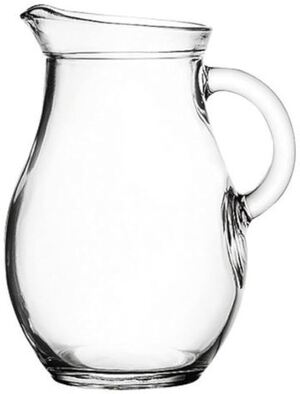
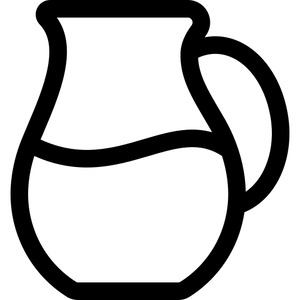
github.com/pishoyg/coptic/commit/efe8f98b48b654e49dac6e984cdf5decde301324 ``` [#5,#189][Crum/Images,Senses] Run `make flashcards test`.
```

Changed region(s): [[0.0, 0.0, 0.99, 1.0]]

diff --git a/crum/804.html b/crum/804.html
@@ -113,7 +113,97 @@
     </div>
 
     <br>
-    <br>
+
+    <div id="images" class="images">
+      <figure>
+        <img id="explanatory804-2-1" class="explanatory" alt=
+        "https://www.istockphoto.com/nl/vector/hand-die-op-deurpictogram-klopt-vectorillustratie-gm1226584212-361448752"
+        src="dictionary_marcion.sourceforge.net_data_img-300_804-2-1.jpg"
+        style="width: auto">
+        <figcaption>
+          <span class="dev explanatory-key" hidden="">804-2-1</span>
+          <span class="italic lighter small">knock</span>
+        </figcaption>
+      </figure>
+
+      <figure>
+        <img id="explanatory804-3-1" class="explanatory" alt=
+        "https://www.shutterstock.com/da/image-vector/aged-people-knock-big-iron-monastery-1779469655"
+        src="dictionary_marcion.sourceforge.net_data_img-300_804-3-1.webp"
+        style="width: auto">
+        <figcaption>
+          <span class="dev explanatory-key" hidden="">804-3-1</span>
+          <span class="italic lighter small">knock (to summon
+          congregation)</span>
+        </figcaption>
+      </figure>
+
+      <figure>
+        <img id="explanatory804-4-1" class="explanatory" alt=
+        "https://www.freepik.com/icon/man-knocking-door_10694" src=
+        "dictionary_marcion.sourceforge.net_data_img-300_804-4-1.jpg" style=
+        "width: auto">
+        <figcaption>
+          <span class="dev explanatory-key" hidden="">804-4-1</span>
+          <span class="italic lighter small">knock (on door)</span>
+        </figcaption>
+      </figure>
+
+      <figure>
+        <img id="explanatory804-5-1" class="explanatory" alt=
+        "https://www.flaticon.com/free-icon/trumpet_151763" src=
+        "dictionary_marcion.sourceforge.net_data_img-300_804-5-1.jpg" style=
+        "width: auto">
+        <figcaption>
+          <span class="dev explanatory-key" hidden="">804-5-1</span>
+          <span class="italic lighter small">voice instrument</span>
+        </figcaption>
+      </figure>
+
+      <figure>
+        <img id="explanatory804-6-1" class="explanatory" alt=
+        "https://www.flaticon.com/free-icon/heartbeat_771557" src=
+        "dictionary_marcion.sourceforge.net_data_img-300_804-6-1.jpg" style=
+        "width: auto">
+        <figcaption>
+          <span class="dev explanatory-key" hidden="">804-6-1</span>
+          <span class="italic lighter small">heartbeat</span>
+        </figcaption>
+      </figure>
+
+      <figure>
+        <img id="explanatory804-7-1" class="explanatory" alt=
+        "https://www.vecteezy.com/free-vector/weaving-icon" src=
+        "dictionary_marcion.sourceforge.net_data_img-300_804-7-1.jpg" style=
+        "width: auto">
+        <figcaption>
+          <span class="dev explanatory-key" hidden="">804-7-1</span>
+          <span class="italic lighter small">process in mat weaving</span>
+        </figcaption>
+      </figure>
+
+      <figure>
+        <img id="explanatory804-8-1" class="explanatory" alt=
+        "https://www.freepik.com/premium-vector/portrait-man-has-shoulder-pain-illustration_134339944.htm"
+        src="dictionary_marcion.sourceforge.net_data_img-300_804-8-1.jpg"
+        style="width: auto">
+        <figcaption>
+          <span class="dev explanatory-key" hidden="">804-8-1</span>
+          <span class="italic lighter small">throb, ache</span>
+        </figcaption>
+      </figure>
+
+      <figure>
+        <img id="explanatory804-9-1" class="explanatory" alt=
+        "https://uxwing.com/clap-icon/" src=
+        "dictionary_marcion.sourceforge.net_data_img-300_804-9-1.jpg" style=
+        "width: auto">
+        <figcaption>
+          <span class="dev explanatory-key" hidden="">804-9-1</span>
+          <span class="italic lighter small">clap</span>
+        </figcaption>
+      </figure>
+    </div>
 
     <hr>
 

diff --git a/crum/806.html b/crum/806.html
@@ -97,7 +97,54 @@
     </div>
 
     <br>
-    <br>
+
+    <div id="images" class="images">
+      <figure>
+        <img id="explanatory806-1-1" class="explanatory" alt=
+        "https://www.shareicon.net/musician-percussion-instrument-music-drums-orchestra-people-musical-instrument-cymbals-cymbal-humanpictos-774944"
+        src="dictionary_marcion.sourceforge.net_data_img-300_806-1-1.jpg"
+        style="width: auto">
+        <figcaption>
+          <span class="dev explanatory-key" hidden="">806-1-1</span>
+          <span class="italic lighter small">strike, beat (a musical
+          instrument)</span>
+        </figcaption>
+      </figure>
+
+      <figure>
+        <img id="explanatory806-2-1" class="explanatory" alt=
+        "https://thenounproject.com/browse/icons/term/bird-song/" src=
+        "dictionary_marcion.sourceforge.net_data_img-300_806-2-1.jpg" style=
+        "width: auto">
+        <figcaption>
+          <span class="dev explanatory-key" hidden="">806-2-1</span>
+          <span class="italic lighter small">make a repeated sound (as of bird
+          voice)</span>
+        </figcaption>
+      </figure>
+
+      <figure>
+        <img id="explanatory806-3-1" class="explanatory" alt=
+        "https://uxwing.com/drum-icon/" src=
+        "dictionary_marcion.sourceforge.net_data_img-300_806-3-1.jpg" style=
+        "width: auto">
+        <figcaption>
+          <span class="dev explanatory-key" hidden="">806-3-1</span>
+          <span class="italic lighter small">drum</span>
+        </figcaption>
+      </figure>
+
+      <figure>
+        <img id="explanatory806-4-1" class="explanatory" alt=
+        "https://uxwing.com/cymbal-icon/" src=
+        "dictionary_marcion.sourceforge.net_data_img-300_806-4-1.jpg" style=
+        "width: auto">
+        <figcaption>
+          <span class="dev explanatory-key" hidden="">806-4-1</span>
+          <span class="italic lighter small">cymbals</span>
+        </figcaption>
+      </figure>
+    </div>
 
     <hr>
 

diff --git a/crum/792.html b/crum/792.html
@@ -111,12 +111,24 @@
 
     <div id="images" class="images">
       <figure>
-        <img id="explanatory792-1-1" class="explanatory" alt="792-1-1" src=
+        <img id="explanatory792-1-1" class="explanatory" alt=
+        "https://www.flaticon.com/free-icon/pitcher_3159617" src=
         "dictionary_marcion.sourceforge.net_data_img-300_792-1-1.jpg" style=
         "width: auto">
         <figcaption>
           <span class="dev explanatory-key" hidden="">792-1-1</span>
-          <span class="italic lighter small">1</span>
+          <span class="italic lighter small">pitcher</span>
+        </figcaption>
+      </figure>
+
+      <figure>
+        <img id="explanatory792-2-1" class="explanatory" alt=
+        "https://www.flaticon.com/free-icon/jar_175533" src=
+        "dictionary_marcion.sourceforge.net_data_img-300_792-2-1.jpg" style=
+        "width: auto">
+        <figcaption>
+          <span class="dev explanatory-key" hidden="">792-2-1</span>
+          <span class="italic lighter small">jar</span>
         </figcaption>
       </figure>
     </div>

diff --git a/crum/803.html b/crum/803.html
@@ -94,7 +94,30 @@
     </div>
 
     <br>
-    <br>
+
+    <div id="images" class="images">
+      <figure>
+        <img id="explanatory803-2-1" class="explanatory" alt=
+        "http://www.coptic-cairo.com/culture/monk/monk/garment.html" src=
+        "dictionary_marcion.sourceforge.net_data_img-300_803-2-1.jpg" style=
+        "width: auto">
+        <figcaption>
+          <span class="dev explanatory-key" hidden="">803-2-1</span>
+          <span class="italic lighter small">hood (mostly of monks)</span>
+        </figcaption>
+      </figure>
+
+      <figure>
+        <img id="explanatory803-4-1" class="explanatory" alt=
+        "https://www.amazon.com/Friar-Medieval-Renaissance-Costume-Accessory/dp/B093PK1PVQ"
+        src="dictionary_marcion.sourceforge.net_data_img-300_803-4-1.jpg"
+        style="width: auto">
+        <figcaption>
+          <span class="dev explanatory-key" hidden="">803-4-1</span>
+          <span class="italic lighter small">cowl (mostly of monks)</span>
+        </figcaption>
+      </figure>
+    </div>
 
     <hr>
 

diff --git a/crum/811.html b/crum/811.html
@@ -121,7 +121,30 @@
     </div>
 
     <br>
-    <br>
+
+    <div id="images" class="images">
+      <figure>
+        <img id="explanatory811-2-1" class="explanatory" alt=
+        "https://www.amazon.nl/-/en/Wooden-Inches-Unfinished-Hardwood-Woodpeckers/dp/B07BGGTGSZ"
+        src="dictionary_marcion.sourceforge.net_data_img-300_811-2-1.jpg"
+        style="width: auto">
+        <figcaption>
+          <span class="dev explanatory-key" hidden="">811-2-1</span>
+          <span class="italic lighter small">rod</span>
+        </figcaption>
+      </figure>
+
+      <figure>
+        <img id="explanatory811-3-1" class="explanatory" alt=
+        "https://www.turbosquid.com/3d-models/egyptian-heka-and-nekhakha-sceptres-3d-2120933"
+        src="dictionary_marcion.sourceforge.net_data_img-300_811-3-1.jpg"
+        style="width: auto">
+        <figcaption>
+          <span class="dev explanatory-key" hidden="">811-3-1</span>
+          <span class="italic lighter small">sceptre</span>
+        </figcaption>
+      </figure>
+    </div>
 
     <hr>
 

diff --git a/crum/805.html b/crum/805.html
@@ -92,7 +92,30 @@
     </div>
 
     <br>
-    <br>
+
+    <div id="images" class="images">
+      <figure>
+        <img id="explanatory805-1-1" class="explanatory" alt=
+        "https://en.wikipedia.org/wiki/List_of_plants_known_as_rush" src=
+        "dictionary_marcion.sourceforge.net_data_img-300_805-1-1.jpg" style=
+        "width: auto">
+        <figcaption>
+          <span class="dev explanatory-key" hidden="">805-1-1</span>
+          <span class="italic lighter small">reed, rush</span>
+        </figcaption>
+      </figure>
+
+      <figure>
+        <img id="explanatory805-1-3" class="explanatory" alt=
+        "https://en.wikipedia.org/wiki/Reed_(plant)" src=
+        "dictionary_marcion.sourceforge.net_data_img-300_805-1-3.jpg" style=
+        "width: auto">
+        <figcaption>
+          <span class="dev explanatory-key" hidden="">805-1-3</span>
+          <span class="italic lighter small">reed, rush</span>
+        </figcaption>
+      </figure>
+    </div>
 
     <hr>
 

diff --git a/crum/799.html b/crum/799.html
@@ -94,7 +94,30 @@
     </div>
 
     <br>
-    <br>
+
+    <div id="images" class="images">
+      <figure>
+        <img id="explanatory799-1-1" class="explanatory" alt=
+        "https://www.flaticon.com/free-icon/steal_7128467" src=
+        "dictionary_marcion.sourceforge.net_data_img-300_799-1-1.jpg" style=
+        "width: auto">
+        <figcaption>
+          <span class="dev explanatory-key" hidden="">799-1-1</span>
+          <span class="italic lighter small">steal</span>
+        </figcaption>
+      </figure>
+
+      <figure>
+        <img id="explanatory799-2-1" class="explanatory" alt=
+        "https://www.vecteezy.com/vector-art/31606724-solid-icon-for-rob" src=
+        "dictionary_marcion.sourceforge.net_data_img-300_799-2-1.jpg" style=
+        "width: auto">
+        <figcaption>
+          <span class="dev explanatory-key" hidden="">799-2-1</span>
+          <span class="italic lighter small">rob</span>
+        </figcaption>
+      </figure>
+    </div>
 
     <hr>
 

diff --git a/crum/795.html b/crum/795.html
@@ -109,7 +109,30 @@
     </div>
 
     <br>
-    <br>
+
+    <div id="images" class="images">
+      <figure>
+        <img id="explanatory795-1-1" class="explanatory" alt=
+        "https://en.wikipedia.org/wiki/Crown" src=
+        "dictionary_marcion.sourceforge.net_data_img-300_795-1-1.jpg" style=
+        "width: auto">
+        <figcaption>
+          <span class="dev explanatory-key" hidden="">795-1-1</span>
+          <span class="italic lighter small">crown</span>
+        </figcaption>
+      </figure>
+
+      <figure>
+        <img id="explanatory795-2-1" class="explanatory" alt=
+        "https://en.wikipedia.org/wiki/Wreath" src=
+        "dictionary_marcion.sourceforge.net_data_img-300_795-2-1.jpg" style=
+        "width: auto">
+        <figcaption>
+          <span class="dev explanatory-key" hidden="">795-2-1</span>
+          <span class="italic lighter small">wreath</span>
+        </figcaption>
+      </figure>
+    </div>
 
     <hr>
 

diff --git a/crum/794.html b/crum/794.html
@@ -90,7 +90,19 @@
     </div>
 
     <br>
-    <br>
+
+    <div id="images" class="images">
+      <figure>
+        <img id="explanatory794-1-1" class="explanatory" alt=
+        "https://selcukinanli.com/uimages/eyelid.png" src=
+        "dictionary_marcion.sourceforge.net_data_img-300_794-1-1.jpg" style=
+        "width: auto">
+        <figcaption>
+          <span class="dev explanatory-key" hidden="">794-1-1</span>
+          <span class="italic lighter small">corner of eye</span>
+        </figcaption>
+      </figure>
+    </div>
 
     <hr>
 

diff --git a/crum/807.html b/crum/807.html
@@ -96,7 +96,19 @@
     </div>
 
     <br>
-    <br>
+
+    <div id="images" class="images">
+      <figure>
+        <img id="explanatory807-1-1" class="explanatory" alt=
+        "https://en.wikipedia.org/wiki/Gum_(botany)" src=
+        "dictionary_marcion.sourceforge.net_data_img-300_807-1-1.jpg" style=
+        "width: auto">
+        <figcaption>
+          <span class="dev explanatory-key" hidden="">807-1-1</span>
+          <span class="italic lighter small">gum</span>
+        </figcaption>
+      </figure>
+    </div>
 
     <hr>
 
